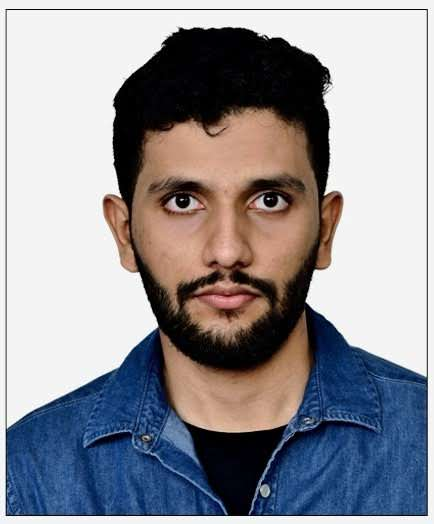
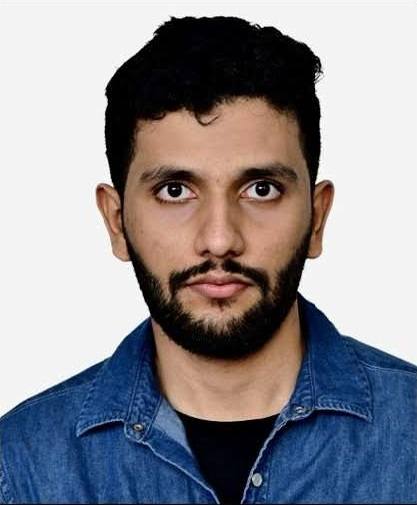
profile photo updated

Changed region(s): [[0.0, 0.0, 1.0, 1.0]]

diff --git a/src/components/Home.jsx b/src/components/Home.jsx
@@ -5,7 +5,7 @@ import ReactGA from 'react-ga';
 import FadeIn from '../animation/FadeIn';
 import {data} from '../data'
 import resume from '../documents/Akshay Nair.pdf'
-import profile from '../images/akshay.jpeg'
+import profile from '../images/Akshay.jpg'
 
 const Home = () => {
 

diff --git a/src/index.css b/src/index.css
@@ -83,10 +83,9 @@ a.animated-link {
 }
 
 .profile {
-  height: 280px;
-  width: 280;
-  object-fit: cover;
-  object-position: top;
+  height: 310px;
+  width: 285px;
+  object-fit: fill;
   border-radius: 50%;
 }
 .navbar-margin{
